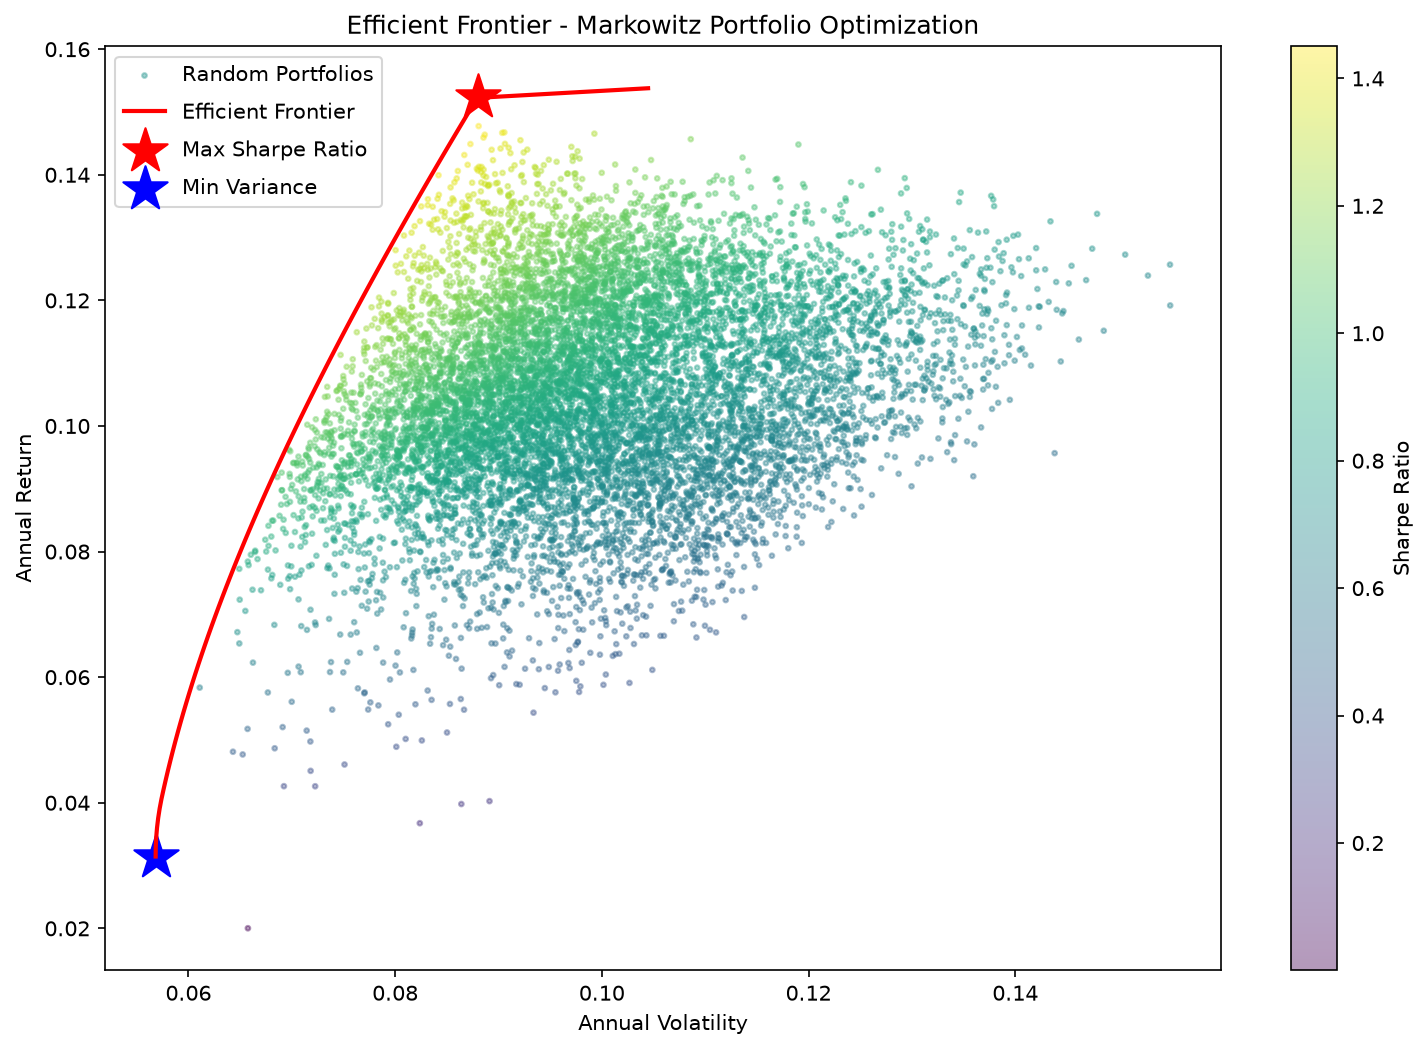
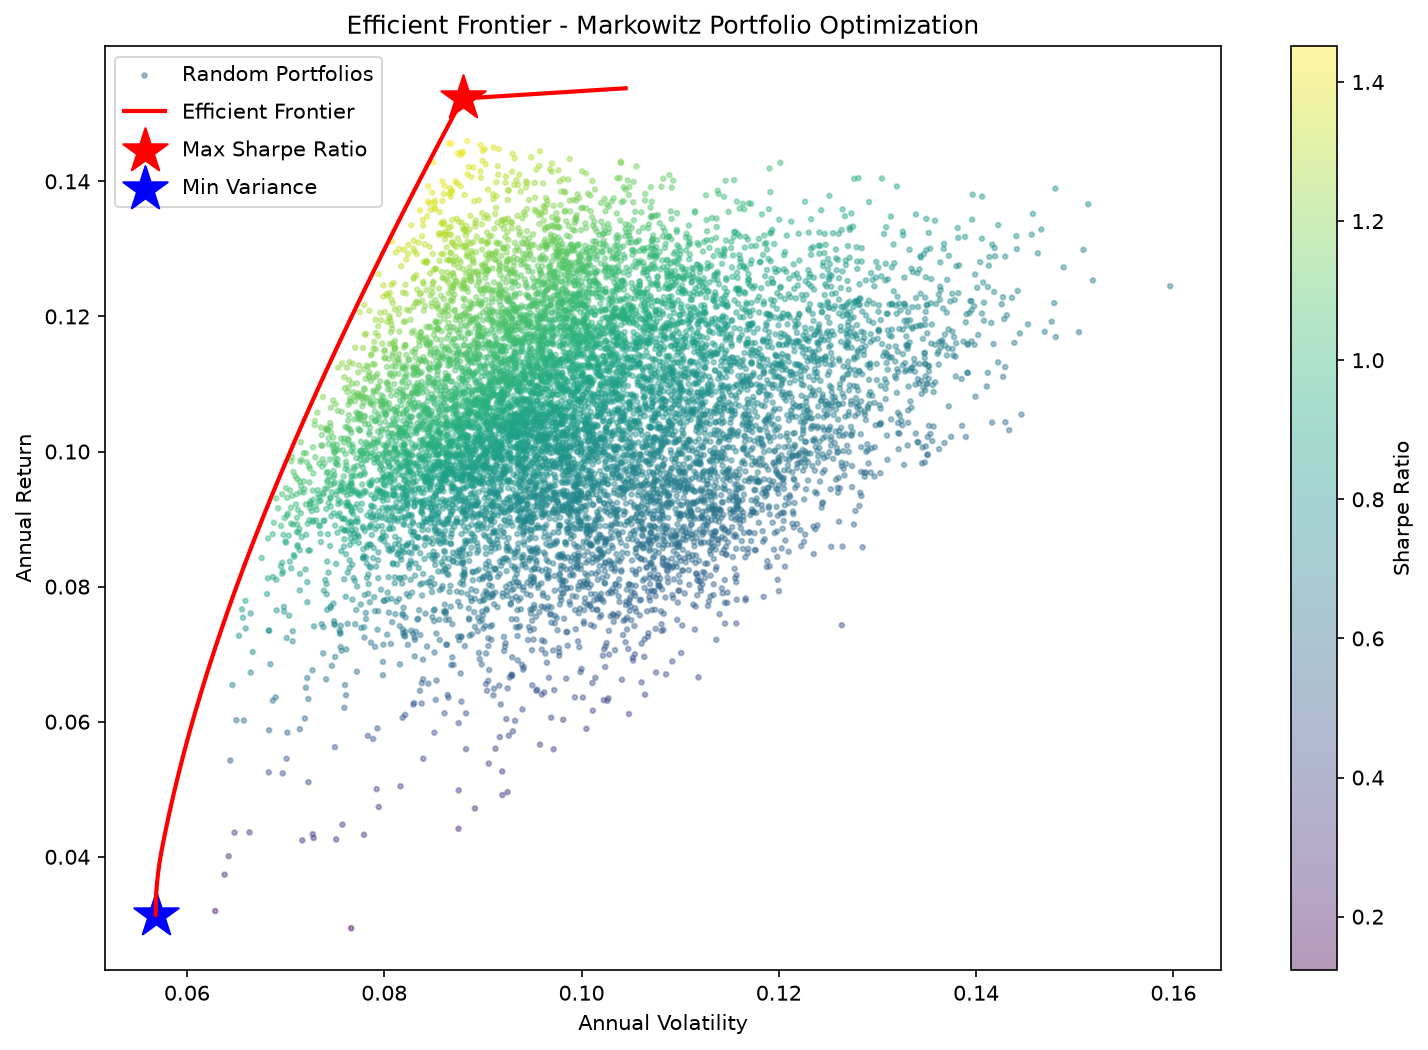
Giorno 6: rolling, expanding, log return e volatilità annualizzata

diff --git a/DAY_1_Markowitz_functions.py b/DAY_1_Markowitz_functions.py
@@ -131,24 +131,25 @@ def final_plot(results, frontier_returns, frontier_volatilities, max_sharpe_retu
     plt.show()
 
 # FINAL RESULT
-tickers = {
-    'MSCI World': 'IWDA.L',
-    'Emerging Markets IMI': 'EIMI.L',
-    'MSCI Small Cap': 'WSML.L',
-    'Bond Corporate Hedged': 'CRHG.L',
-    'Physical Gold': 'EGLN.L'
-}
-prices = download_data(tickers, start='2020-07-01', end='2025-12-31')
-monthly_returns = compute_monthly_returns(prices)
-mean_returns = monthly_returns.mean()
-cov_matrix = monthly_returns.cov()
+if __name__ == "__main__":
+    tickers = {
+        'MSCI World': 'IWDA.L',
+        'Emerging Markets IMI': 'EIMI.L',
+        'MSCI Small Cap': 'WSML.L',
+        'Bond Corporate Hedged': 'CRHG.L',
+        'Physical Gold': 'EGLN.L'
+    }
+    prices = download_data(tickers, start='2020-07-01', end='2025-12-31')
+    monthly_returns = compute_monthly_returns(prices)
+    mean_returns = monthly_returns.mean()
+    cov_matrix = monthly_returns.cov()
 
-results_montecarlo, weights_montecarlo = monte_carlo_simulation(mean_returns, cov_matrix, 10000, 0.02)
+    results_montecarlo, weights_montecarlo = monte_carlo_simulation(mean_returns, cov_matrix, 10000, 0.02)
 
-bounds = build_bounds(mean_returns.index, excluded_asset=None, default_bound=(0, 1.0))
+    bounds = build_bounds(mean_returns.index, excluded_asset=None, default_bound=(0, 1.0))
 
-max_sharpe_weights, max_sharpe_return, max_sharpe_std = optimize_max_sharpe(mean_returns, cov_matrix, bounds, 0.02)
-min_var_weights, min_var_return, min_var_std = optimize_min_variance(mean_returns, cov_matrix, bounds)
+    max_sharpe_weights, max_sharpe_return, max_sharpe_std = optimize_max_sharpe(mean_returns, cov_matrix, bounds, 0.02)
+    min_var_weights, min_var_return, min_var_std = optimize_min_variance(mean_returns, cov_matrix, bounds)
 
-eff_front_returns, eff_front_volatilities = compute_efficient_frontier(mean_returns, cov_matrix, bounds, min_var_return, max_sharpe_return, 100)
-final_plot(results_montecarlo, eff_front_returns, eff_front_volatilities, max_sharpe_return, max_sharpe_std, min_var_return, min_var_std)
+    eff_front_returns, eff_front_volatilities = compute_efficient_frontier(mean_returns, cov_matrix, bounds, min_var_return, max_sharpe_return, 100)
+    final_plot(results_montecarlo, eff_front_returns, eff_front_volatilities, max_sharpe_return, max_sharpe_std, min_var_return, min_var_std)

diff --git a/DAY_4_Try_Except.py b/DAY_4_Try_Except.py
@@ -1,20 +1,16 @@
 import yfinance as yf
 import pandas as pd
-from DAY_1_Markowitz_functions import download_data
+
 
 def safe_divide(a, b):
     try:
         risultato = a / b
         return risultato
-
     except ZeroDivisionError:
         print(f"Attenzione: ZeroDivisionError")
         return None
 
-Calcolo = safe_divide(10, 2)
-Calcolo_1 = safe_divide(10, 0)
 
-# DATA DOWNLOAD
 def download_data_safe(tickers_dict, start, end):
     valid_data = pd.DataFrame()
     for name, ticker in tickers_dict.items():
@@ -29,13 +25,20 @@ def download_data_safe(tickers_dict, start, end):
             continue
     return valid_data
 
-tickers = {
-    'MSCI World': 'IWDA.L',
-    'Emerging Markets IMI': 'EIMI.L',
-    'MSCI Small Cap': 'WSML.L',
-    'Bond Corporate Hedged': 'CRHG.L',
-    'Physical Gold': 'EGLN.L',
-    'Amazon': 'hjhjhbhv'
-}
 
-dati = download_data_safe(tickers, start='2020-07-01', end='2025-12-31')
+if __name__ == "__main__":
+    Calcolo = safe_divide(10, 2)
+    Calcolo_1 = safe_divide(10, 0)
+    print(Calcolo, Calcolo_1)
+
+    tickers = {
+        'MSCI World': 'IWDA.L',
+        'Emerging Markets IMI': 'EIMI.L',
+        'MSCI Small Cap': 'WSML.L',
+        'Bond Corporate Hedged': 'CRHG.L',
+        'Physical Gold': 'EGLN.L',
+        'Amazon': 'hjhjhbhv'
+    }
+
+    dati = download_data_safe(tickers, start='2020-07-01', end='2025-12-31')
+    print(dati)

diff --git a/DAY_6_Rolling_Expanding.py b/DAY_6_Rolling_Expanding.py
@@ -1,0 +1,38 @@
+import yfinance as yf
+import pandas as pd
+import numpy as np
+import matplotlib.pyplot as plt
+from scipy.optimize import minimize
+from DAY_4_Try_Except import download_data_safe
+
+tickers = {
+    'MSCI World': 'IWDA.L',
+    'Emerging Markets IMI': 'EIMI.L',
+    'MSCI Small Cap': 'WSML.L',
+    'Bond Corporate Hedged': 'CRHG.L',
+    'Physical Gold': 'EGLN.L',
+}
+
+prices = download_data_safe(tickers, start='2020-07-01', end='2025-12-31')
+
+moving_average_20 = prices['MSCI World'].rolling(20).mean()
+moving_std_30 = prices['MSCI World'].rolling(30).std()
+print(moving_average_20.head(25), moving_std_30.head(25))
+
+expanding_mean = prices['MSCI World'].expanding().mean()
+print(expanding_mean.head(10))
+
+# Exercise 1
+log_returns = np.log(prices['MSCI World'] / prices['MSCI World'].shift(1))
+
+rolling_volatility_annualized = log_returns.rolling(30).std() * np.sqrt(252)
+
+picco_data = rolling_volatility_annualized.idxmax()
+print(picco_data)
+print(prices['MSCI World'].loc[picco_data - pd.Timedelta(days=10): picco_data + pd.Timedelta(days=10)])
+
+plt.plot(rolling_volatility_annualized)
+plt.title('Annualized Volatility Rolling (30gg) - MSCI World')
+plt.xlabel('Time')
+plt.ylabel('Volatility')
+plt.show()
